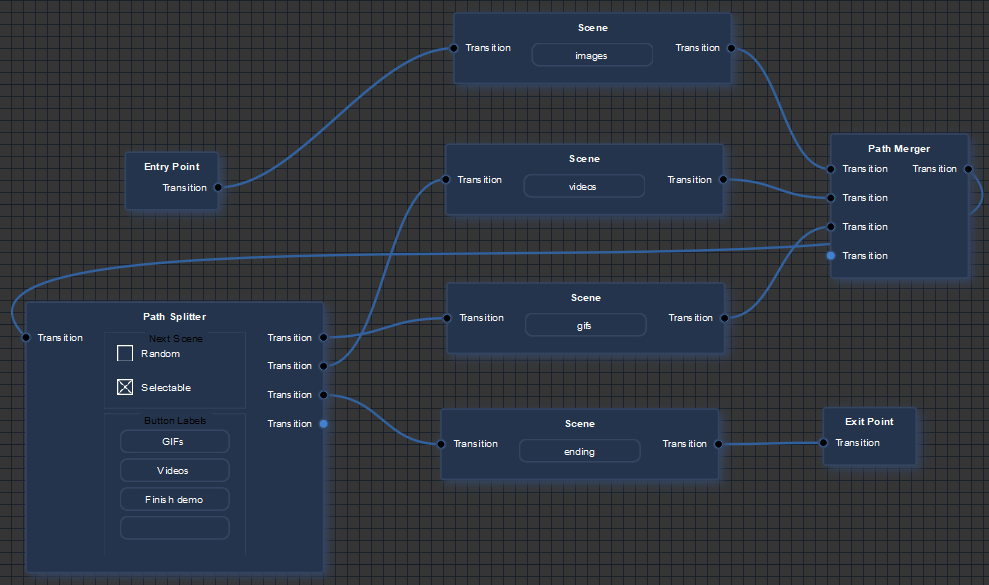
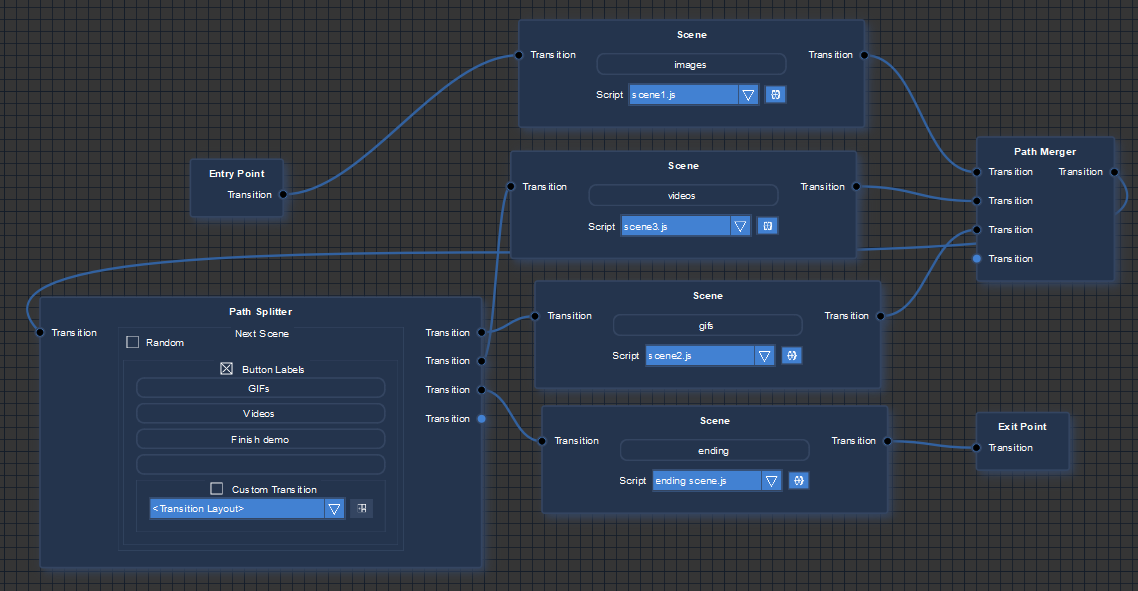
Updated Help for nodes

Changed region(s): [[0.0, 0.0, 1.0, 1.0], [0.1517, 0.7077, 0.273, 0.7692], [0.1213, 0.6462, 0.182, 0.6769]]

diff --git a/resources/help/editor/nodes/node_help.html b/resources/help/editor/nodes/node_help.html
@@ -65,11 +65,16 @@
         <li><b>Path Splitters</b>: These nodes split the flow of a project into up to four
         possible paths. Depending on the type of the "Path Splitter" node the flow in the player will either continue
         with a <i>random</i> node, or prompt the user to <i>select</i> the path.<br>
+        By selecting &qout;Button Labels&qout; and putting the splitter into <i>select</i>
+        mode, a custom transition can be used if needed. This transition uses a
+        <a href="qrc:/resources/help/layout/layout_help.html">Layout Resource</a> to display the selection UI.
+        To create a new transition from a template, click the button next to the Resource selector.<br>
         "Path Splitter" and "Path Merger" nodes can be combined and chained freely to cerate more path alternatives and
         a mix between <i>random</i> and <i>selectable</i> flow.
         Any empty connectors will be ignored during playing and you do not need to worry about them.<br>
         The four line edits are for the user visible path names if the node is of type <i>selectable</i>.
-        They corespond to the user visible button labels in the editor.<br>
+        They corespond to the user visible button labels in the editor and the labels available to
+        custom transitions (variable: vsInput).<br>
         </li>
 
         <li><b>Path Merger</b>: These nodes merge the flow of a project from up to four
